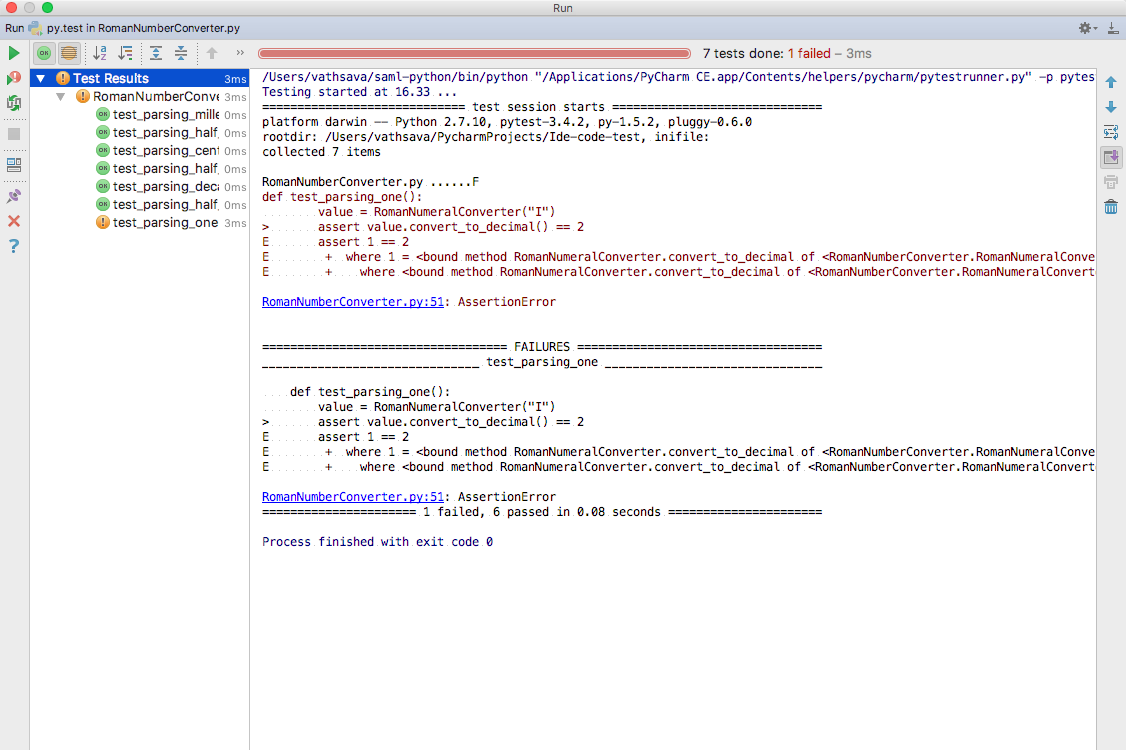
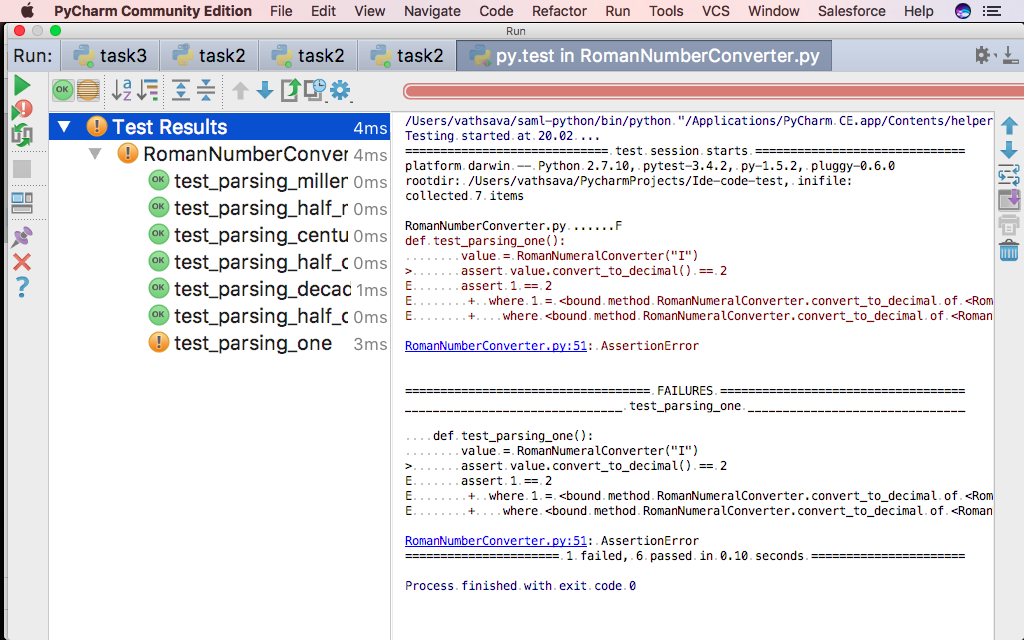
Added images with bigger font size

Changed region(s): [[0.0, 0.0, 1.0, 1.0], [0.375, 0.9062, 0.625, 0.9375]]

diff --git a/_episodes/01-introduction-to-IDEs.md b/_episodes/01-introduction-to-IDEs.md
@@ -56,12 +56,12 @@ We start by creating a project.
 
 ### PyCharm environment
 The screen is divided in a project area and a gray canvas.
-![PyCharm Project Area](../img/PyC_project_area.png)
+![PyCharm Project Area](../img/ide_introduction.png)
 
 This is currently an empty project. It contains the default setup for a project with a Python Interpreter.
 If you double click on "External Libraries", you will see your Python Environment.
 
-![PyCharm Interpreter Expanded](../img/PyC_py_expand.png)
+![PyCharm Interpreter Expanded](../img/ide_introduction_libraries.png)
 
 Note, if you want to remove a view select the "Black&&White"-vertical bar. For a horizontal view,
 there will be a corresonding horizontal bar.
@@ -80,11 +80,11 @@ print('Hello World!')
 The file can be excuted by selecting "Run"->"Run". The output from the execution will disappear
 by select the "Red X".
 
-![](../img/PyC_run.png)
+![](../img/ide_program_hello.png)
 
 It is also possible to execute the code in a terminal which is part of PyCharm.
 
-![](../img/PyC_hw.png)
+![](../img/ide_execute_program_from_terminal.png)
 ### PyCharm Settings/Preferences dialog {#Configure}
 
 - **Windows and Linux** - *File -> Settings* 
@@ -105,7 +105,7 @@ select type of interpreter and type of package manager you want to use (if you h
 and Python from Anaconda.org installed)
 ![](../img/PyC_local_py_interpreter.png)
 #### Create environment
-![](../img/PyC_cr_conda_env.png)
+![](../img/ide_add_interpreter.png)
 
 We will change the Project Interpreter.
 Select "[Settings/Preferences](#Configure)->Project:<project-name>->ProjectInterpreter"
@@ -121,7 +121,7 @@ how you can install necessary modules. In python, requirements.txt is commonly u
 #### Create requirements.txt file in the root directory of the project {#dependecies}
 
 To configure this as default requirements file, go to [Settings/Preferences](#Configure) -> Tools in PyCharm
-![](../img/PyC_integrated_tools.png)
+![](../img/ide_add_requirements.png)
 
 Add requirements.txt as the default requirements file.
 
@@ -131,9 +131,9 @@ jupyter
 numpy
 scipy
 ```
-As you add requirements, you will see notifications about requirements that has to be installed.
+Open a Python file, you will see notifications on top about requirements that has to be installed.
 The event log will state that the packages are installed succesfully.
-![](../img/PyC_eventlog_env.png)
+![](../img/ide_update_requirements_file.png)
 
 
 ### Enabling Version Control
@@ -207,12 +207,12 @@ the setting such that violations of the PEP 8 Style Guide is more pronounced.
 
 Open [Settings/Preferences](#Configure) and search for `pep8`. Change the severity regarding violation of PEP8
 coding style and naming convention from `weak warning` to `warning`.
-![](../img/PyC_pep8warn.png)
+![](../img/ide_pep8_warnings.png)
 
 Having done that, do the code inspection by selecting "Code"->"Code Inspection". PyCharm produce 
 a view with the individual violations. The source code is also colored in areas where the 
 violations happen.
-![](../img/PyC_codeinspect.png)
+![](../img/ide_pep8_inspection.png)
 
 You can select the each warning and reformat the file, removing the PEP8-violations. 
 
